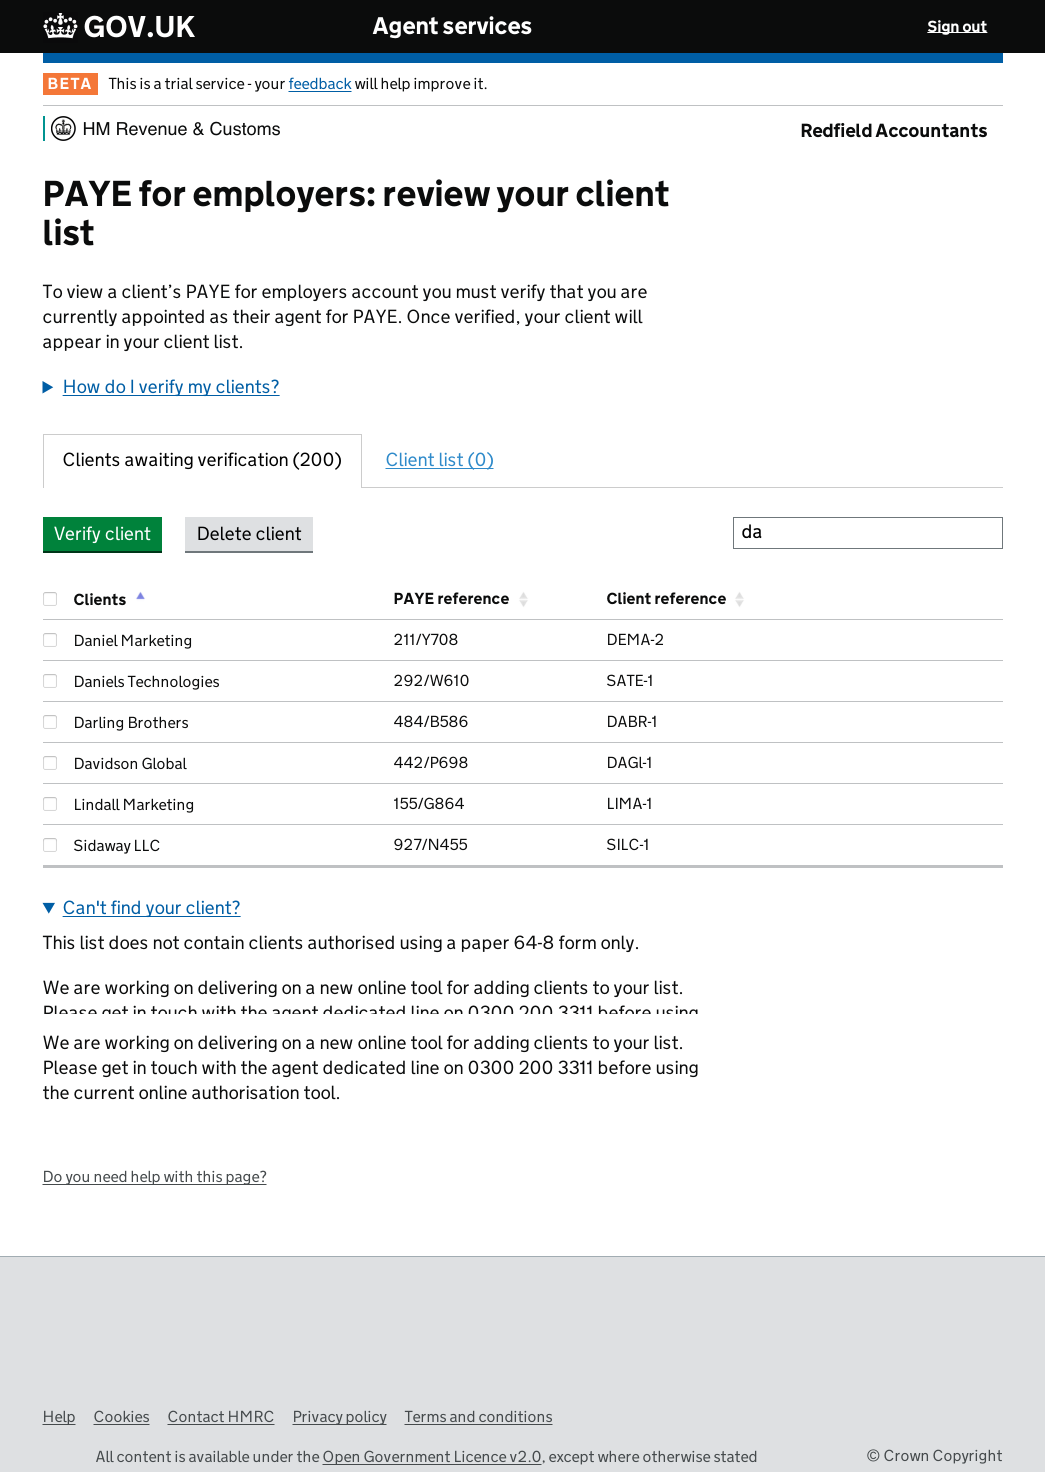
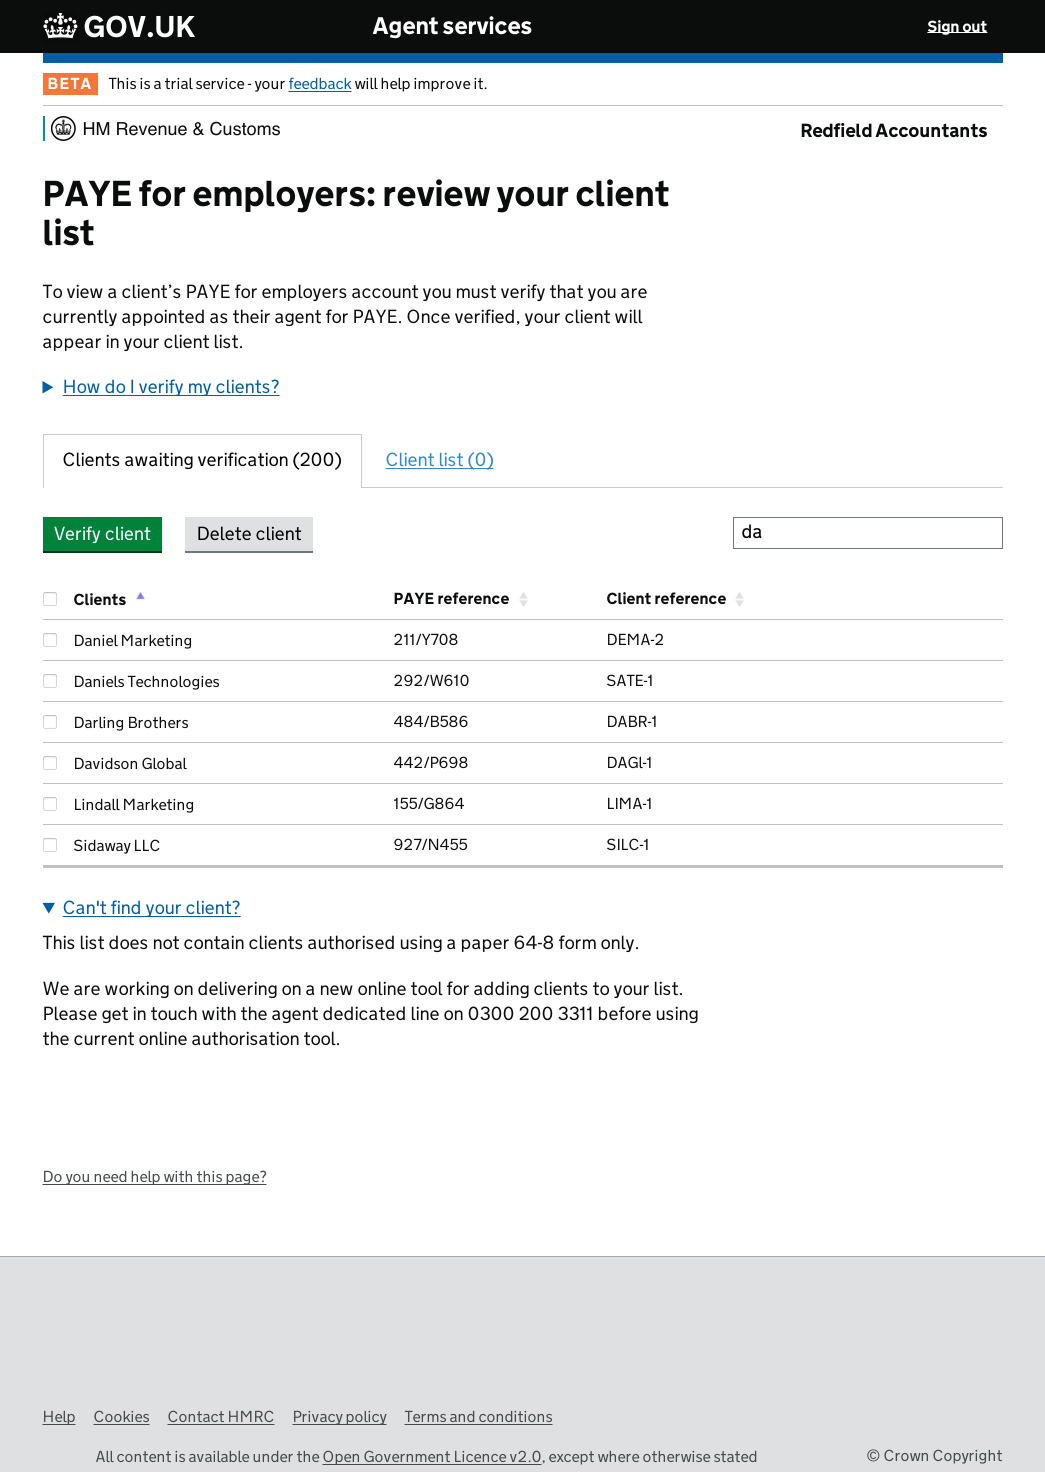
update

Changed region(s): [[0.0306, 0.6562, 0.6737, 0.75]]

diff --git a/service/agents/data.js b/service/agents/data.js
@@ -24,7 +24,7 @@ var data = {
     },{
       "caption": "The unverified client list",
       "imgref": "images/agents/6-client-list.png",
-      "notes": "The left hand tab on this page presents the agent with a list of clients drawn from the current Government Gateway record. <br/><br/>The clients are presented as 'unverified' and the agent is asked either to confirm that they are still clients or to delete them from the list if they are no longer clients. <br/><br/>The page offers a drop-down feature with step-by-step guidance on how to verify clients. <br/><br/>Any missing clients will need to be added to the list using the Online Agent Authorisation service."
+      "notes": "The left hand tab on this page presents the agent with a list of clients drawn from the current Government Gateway record. <br/><br/>The clients are presented as 'unverified' and the agent is asked either to confirm that they are still clients or to delete them from the list if they are no longer clients. <br/><br/>The page offers a drop-down feature with step-by-step guidance on how to verify clients."
     },{
       "caption": "Searching for a client",
       "imgref": "images/agents/7-client-list-search.png",
@@ -36,7 +36,7 @@ var data = {
     },{
       "caption": "Delete confirmation page",
       "imgref": "images/agents/9-delete.png",
-      "notes": "After selecting a client and clicking the 'Delete client' button the agent will be asked to confirm that they want to remove the client from their client list.<br/><br/> This feature is provided because deleting a client cannot simply be undone. <br/><br/>If deleted in error the client would have to be added back onto to the client list using the Online Agent Authorisation service."
+      "notes": "After selecting a client and clicking the 'Delete client' button the agent will be asked to confirm that they want to remove the client from their client list.<br/><br/> This feature is provided because deleting a client cannot simply be undone."
     },{
       "caption": "The client has been deleted",
       "imgref": "images/agents/10-client-list-delete.png",
